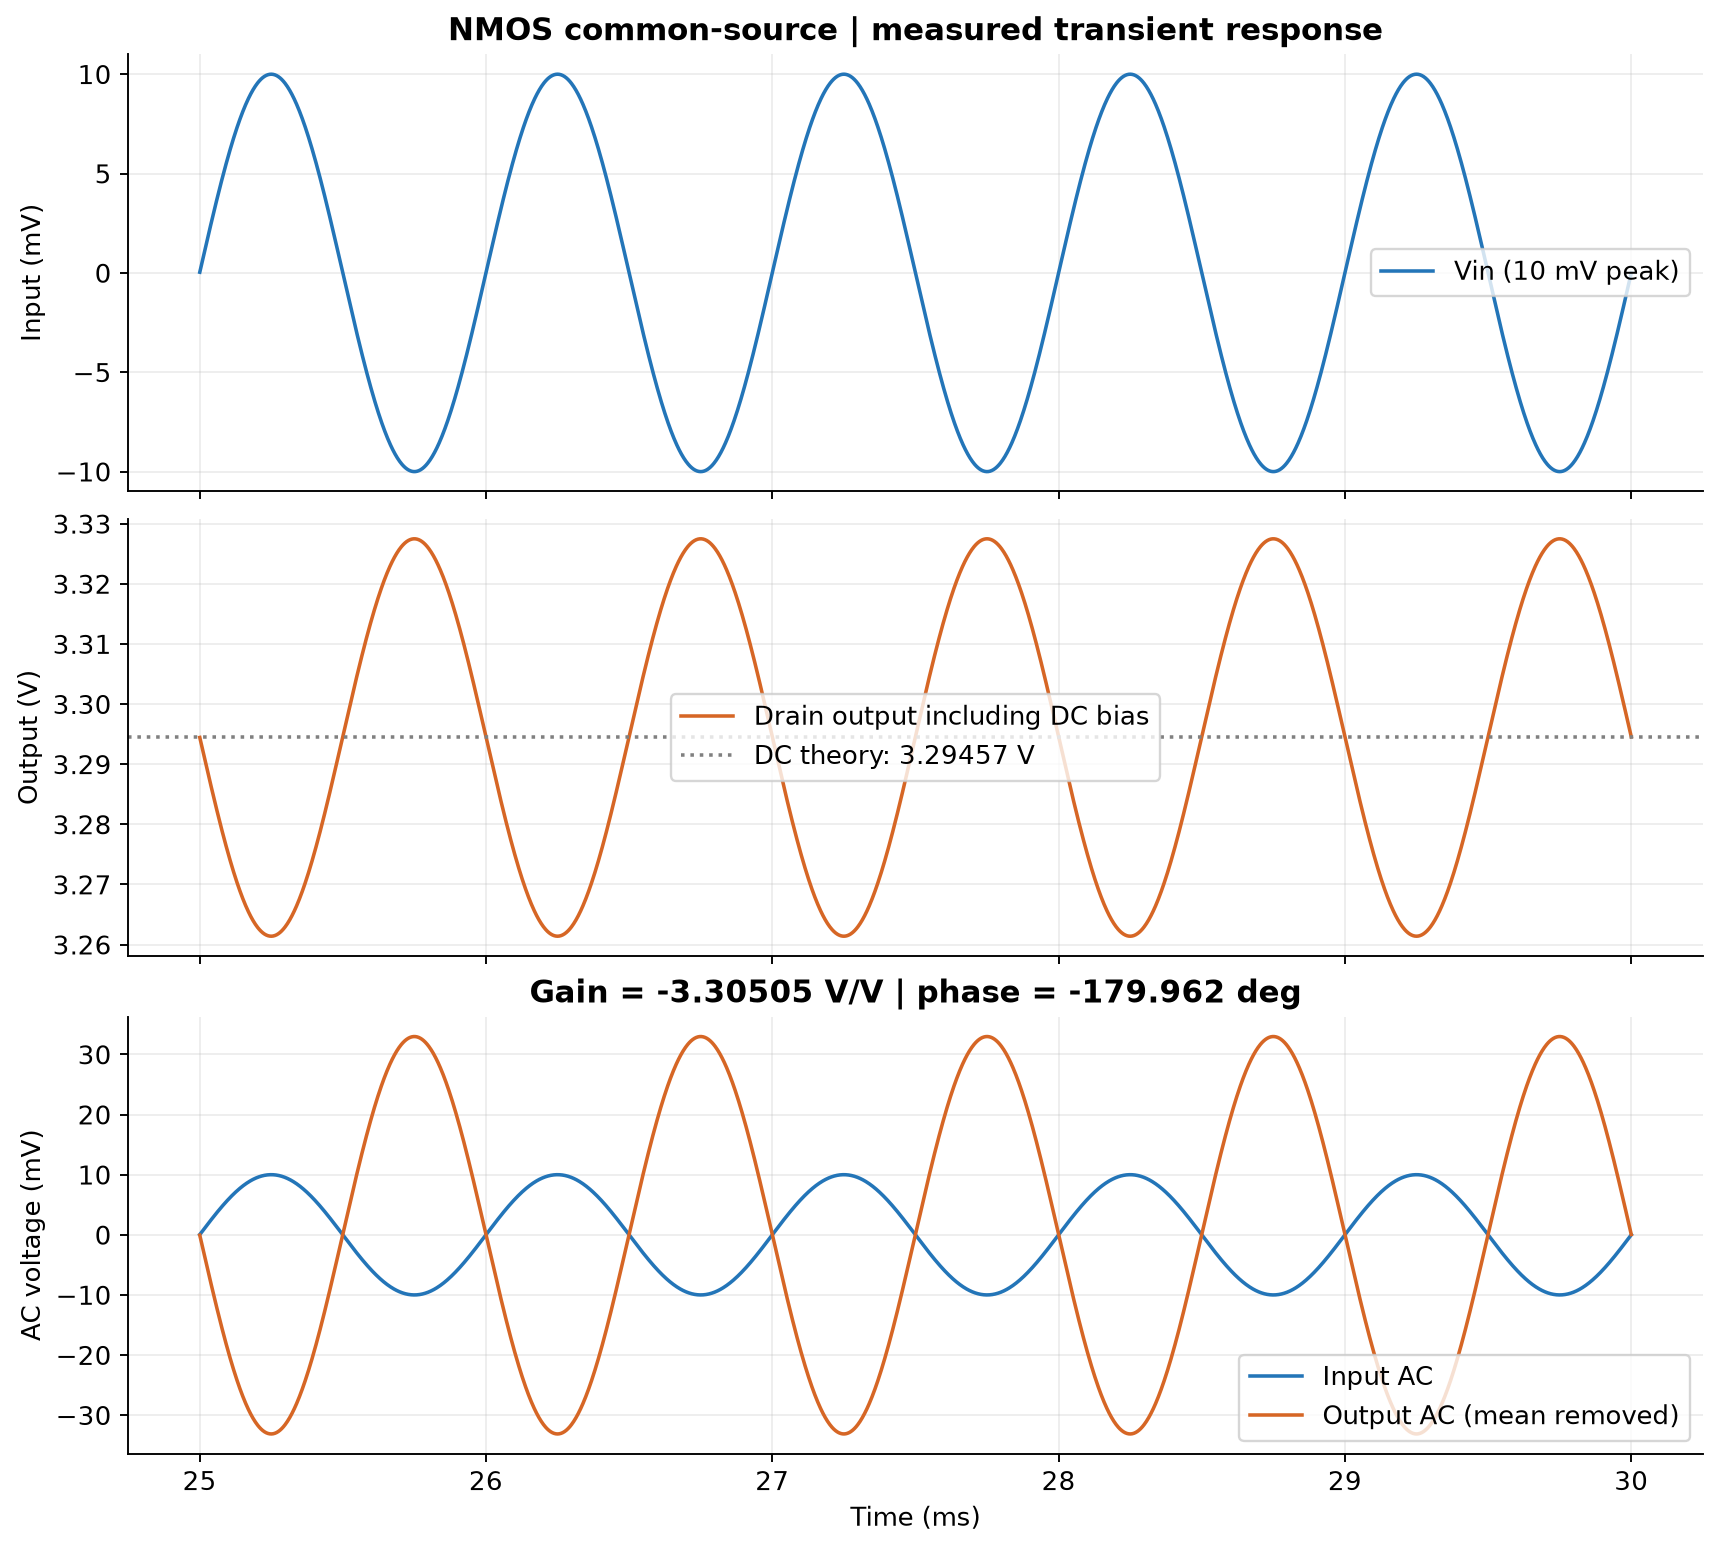
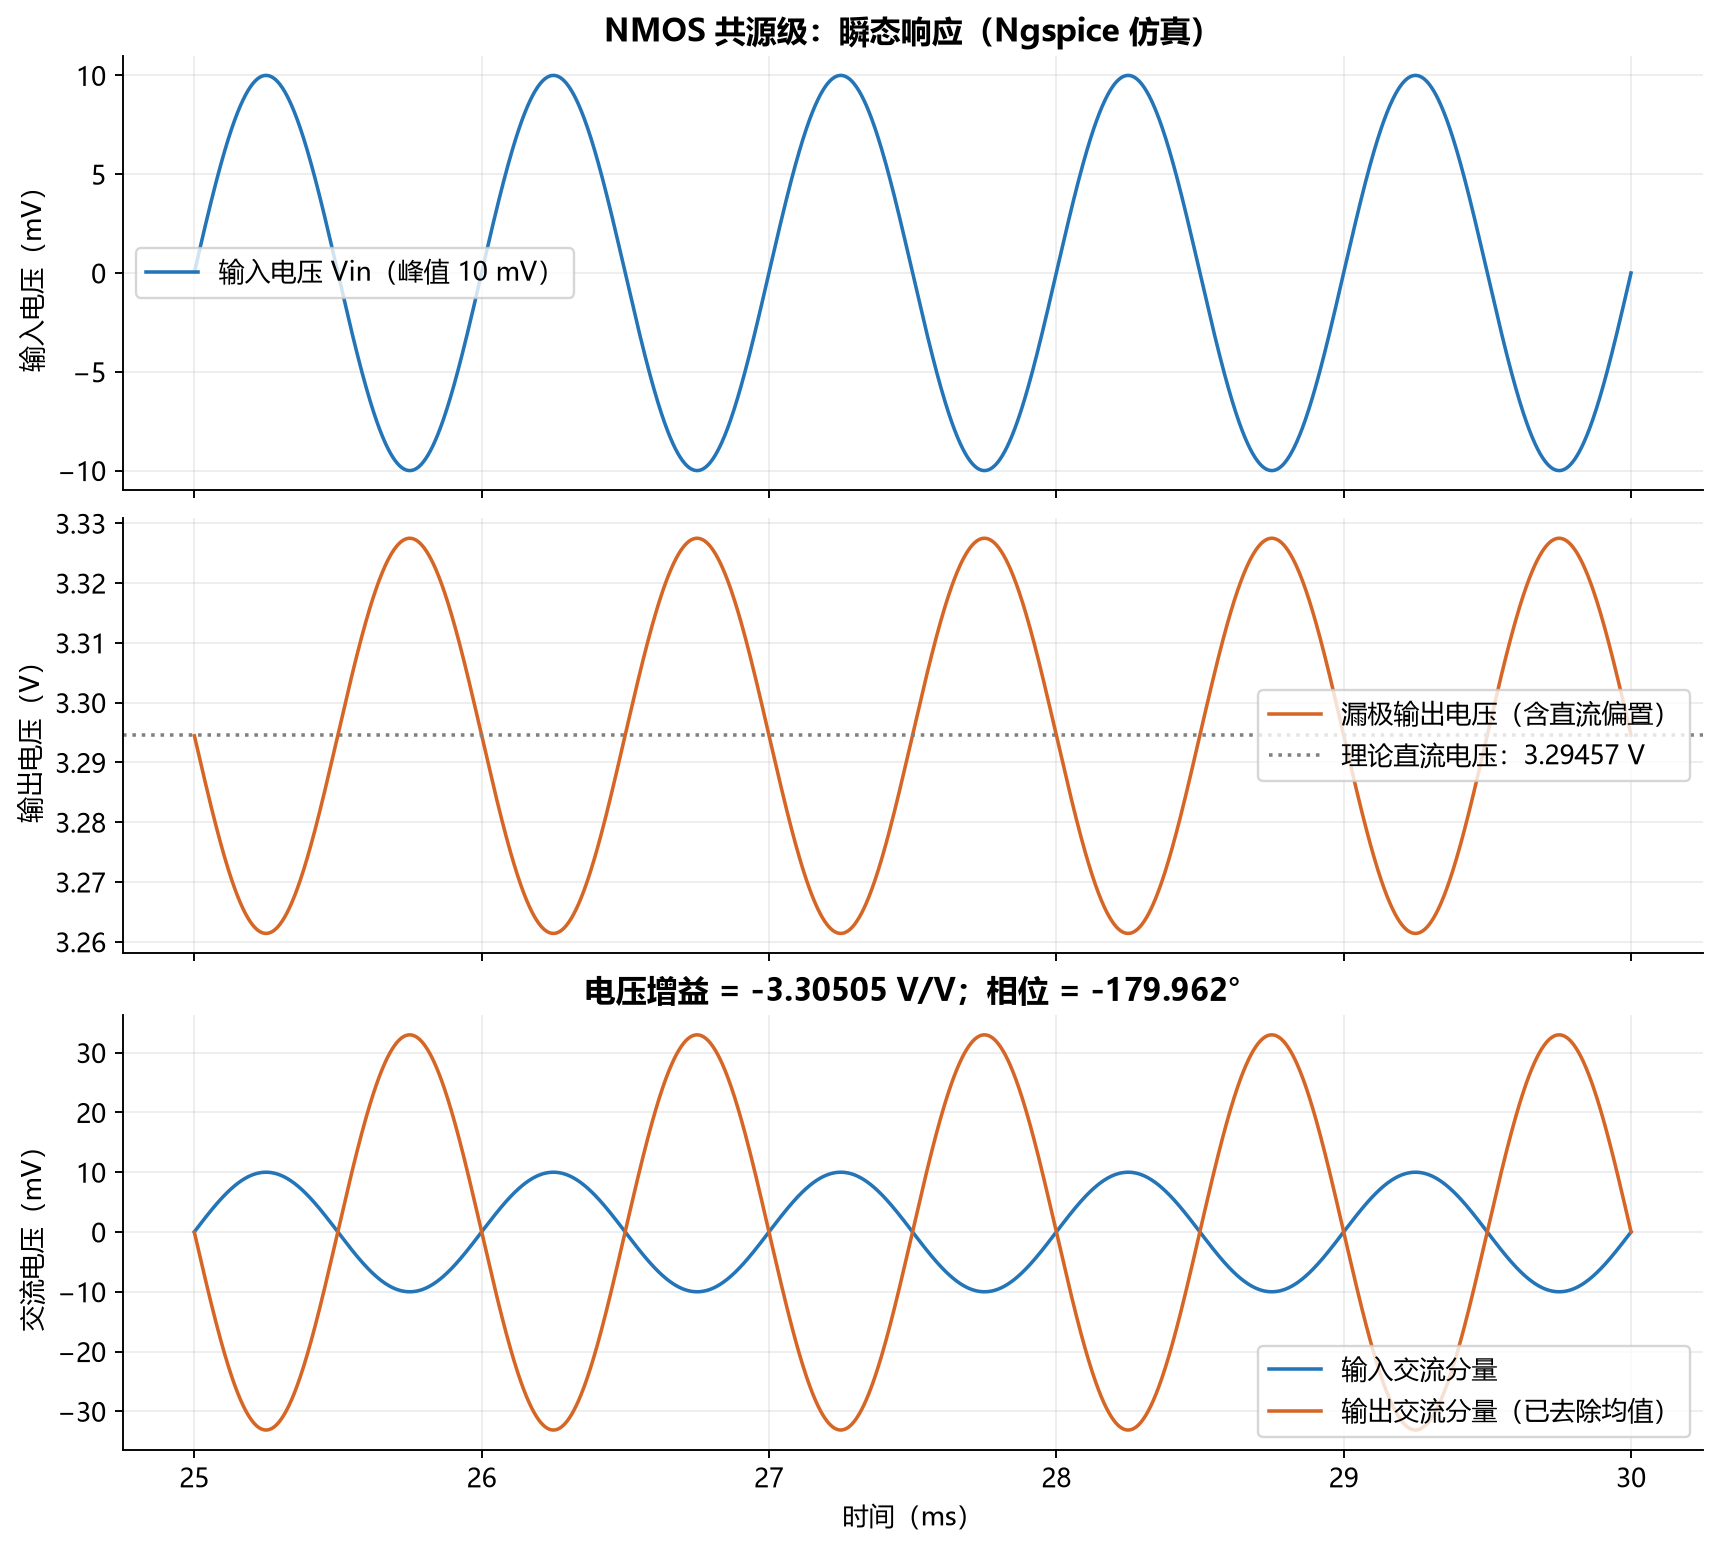
Translate circuit result charts into Chinese

diff --git a/circuits/rc_filter.py b/circuits/rc_filter.py
@@ -44,26 +44,26 @@ def main():
     save_csv('rc_transient', ['time_s','vin_V','vout_V'], [t,vi,vo])
     save_csv('rc_ac', ['frequency_Hz','gain_dB','phase_deg'], [f,db,np.angle(h,deg=True)])
     fig, axes = plt.subplots(2,1, figsize=(10,7), layout='constrained')
-    axes[0].plot(t*1e3,vi,label='Input square wave',color=BLUE)
-    axes[0].plot(t*1e3,vo,label='Output (Ngspice)',color=ORANGE)
-    axes[0].set(title='RC low-pass | square-wave response', xlabel='Time (ms)',ylabel='Voltage (V)')
+    axes[0].plot(t*1e3,vi,label='输入方波',color=BLUE)
+    axes[0].plot(t*1e3,vo,label='输出电压（Ngspice 仿真）',color=ORANGE)
+    axes[0].set(title='RC 低通滤波：方波响应', xlabel='时间（ms）',ylabel='电压（V）')
     axes[0].legend()
     tt = t[select]-.0010005
-    axes[1].plot(tt*1e3,vo[select],color=ORANGE,label='Ngspice')
-    axes[1].plot(tt*1e3,1-np.exp(-np.maximum(tt,0)/TAU),'--',color=BLUE,label='Ideal-step theory')
-    axes[1].axvline(tau_measured*1e3, color='#587955',ls=':',label=f'Measured tau = {tau_measured*1e3:.4f} ms')
-    axes[1].set(xlabel='Time from input rise midpoint (ms)',ylabel='Output (V)',title='First charging edge | 63.212% crossing')
+    axes[1].plot(tt*1e3,vo[select],color=ORANGE,label='Ngspice 仿真曲线')
+    axes[1].plot(tt*1e3,1-np.exp(-np.maximum(tt,0)/TAU),'--',color=BLUE,label='理想阶跃理论曲线')
+    axes[1].axvline(tau_measured*1e3, color='#587955',ls=':',label=f'仿真测得时间常数 τ = {tau_measured*1e3:.4f} ms')
+    axes[1].set(xlabel='相对输入上升沿中点的时间（ms）',ylabel='输出电压（V）',title='首次充电过程：达到最终电压的 63.212%')
     axes[1].legend()
     save_figure(fig,'rc_transient')
     fig, axes = plt.subplots(2,1,figsize=(10,7),sharex=True,layout='constrained')
-    axes[0].semilogx(f,db,color=ORANGE,label='Ngspice')
-    axes[0].semilogx(f,20*np.log10(abs(theory)),'--',color=BLUE,label='Theory')
+    axes[0].semilogx(f,db,color=ORANGE,label='Ngspice 仿真曲线')
+    axes[0].semilogx(f,20*np.log10(abs(theory)),'--',color=BLUE,label='理论曲线')
     axes[0].axhline(cutoff_db,ls=':',color='gray')
-    axes[0].axvline(fc_measured,ls=':',color='gray',label=f'fc = {fc_measured:.3f} Hz')
-    axes[0].set(title='RC low-pass | Bode plot',ylabel='Gain (dB)'); axes[0].legend()
-    axes[1].semilogx(f,np.angle(h,deg=True),color=ORANGE,label='Ngspice')
-    axes[1].semilogx(f,np.angle(theory,deg=True),'--',color=BLUE,label='Theory')
-    axes[1].set(xlabel='Frequency (Hz)',ylabel='Phase (degrees)'); axes[1].legend()
+    axes[0].axvline(fc_measured,ls=':',color='gray',label=f'截止频率 fc = {fc_measured:.3f} Hz')
+    axes[0].set(title='RC 低通滤波：幅频与相频特性（波特图）',ylabel='增益（dB）'); axes[0].legend()
+    axes[1].semilogx(f,np.angle(h,deg=True),color=ORANGE,label='Ngspice 仿真曲线')
+    axes[1].semilogx(f,np.angle(theory,deg=True),'--',color=BLUE,label='理论曲线')
+    axes[1].set(xlabel='频率（Hz）',ylabel='相位（°）'); axes[1].legend()
     save_figure(fig,'rc_bode')
     schematic()
     finish('rc',sim,rows,parameters={'R_ohm':R,'C_F':C,'pulse_Hz':50,'rise_time_s':1e-6},

diff --git a/circuits/mos_amplifier.py b/circuits/mos_amplifier.py
@@ -124,14 +124,14 @@ def main():
     save_csv('mos_transient',['time_s','vin_V','vgs_V','vout_V'],[t,vi,vg_wave,vo])
     shown = t>=.025
     fig,axes = plt.subplots(3,1,figsize=(10,9),sharex=True,layout='constrained')
-    axes[0].plot(t[shown]*1e3,vi[shown]*1e3,color=BLUE,label='Vin (10 mV peak)')
-    axes[0].set(ylabel='Input (mV)',title='NMOS common-source | measured transient response'); axes[0].legend()
-    axes[1].plot(t[shown]*1e3,vo[shown],color=ORANGE,label='Drain output including DC bias')
-    axes[1].axhline(VDS,color='gray',ls=':',label=f'DC theory: {VDS:.5f} V')
-    axes[1].set(ylabel='Output (V)'); axes[1].legend()
-    axes[2].plot(t[shown]*1e3,vi[shown]*1e3,color=BLUE,label='Input AC')
-    axes[2].plot(t[shown]*1e3,(vo[shown]-offset)*1e3,color=ORANGE,label='Output AC (mean removed)')
-    axes[2].set(xlabel='Time (ms)',ylabel='AC voltage (mV)',title=f'Gain = {measured_gain.real:.5f} V/V | phase = {phase:.3f} deg'); axes[2].legend()
+    axes[0].plot(t[shown]*1e3,vi[shown]*1e3,color=BLUE,label='输入电压 Vin（峰值 10 mV）')
+    axes[0].set(ylabel='输入电压（mV）',title='NMOS 共源级：瞬态响应（Ngspice 仿真）'); axes[0].legend()
+    axes[1].plot(t[shown]*1e3,vo[shown],color=ORANGE,label='漏极输出电压（含直流偏置）')
+    axes[1].axhline(VDS,color='gray',ls=':',label=f'理论直流电压：{VDS:.5f} V')
+    axes[1].set(ylabel='输出电压（V）'); axes[1].legend()
+    axes[2].plot(t[shown]*1e3,vi[shown]*1e3,color=BLUE,label='输入交流分量')
+    axes[2].plot(t[shown]*1e3,(vo[shown]-offset)*1e3,color=ORANGE,label='输出交流分量（已去除均值）')
+    axes[2].set(xlabel='时间（ms）',ylabel='交流电压（mV）',title=f'电压增益 = {measured_gain.real:.5f} V/V；相位 = {phase:.3f}°'); axes[2].legend()
     save_figure(fig,'mos_transient')
     schematic(); schematic(dc=True); small_signal()
     finish('mos',sim,rows,convention='Id = K*(Vgs-Vto)^2*(1+lambda*Vds); KP=2*K; W=L=10um',

diff --git a/circuits/thevenin.py b/circuits/thevenin.py
@@ -69,12 +69,12 @@ def main():
     values = np.asarray(data)
     save_csv('thevenin_loads',['RL_ohm','theory_V','original_V','equivalent_V','theory_mA','original_mA','equivalent_mA'],values.T)
     fig, axes = plt.subplots(1,2,figsize=(11,4.5),layout='constrained')
-    for ax,theory_col,orig_col,eq_col,unit in [(axes[0],1,2,3,'Voltage (V)'),(axes[1],4,5,6,'Current (mA)')]:
-        ax.semilogx(values[:,0],values[:,theory_col],color='#96a3b2',label='Theory')
-        ax.semilogx(values[:,0],values[:,orig_col],'o',color=BLUE,label='Original (OP)')
-        ax.semilogx(values[:,0],values[:,eq_col],'x',color=ORANGE,ms=8,label='Equivalent (OP)')
-        ax.set(xlabel='Load resistance (ohm)',ylabel=unit); ax.legend()
-    fig.suptitle('Thevenin validation | same terminal behavior under five loads')
+    for ax,theory_col,orig_col,eq_col,unit in [(axes[0],1,2,3,'负载电压（V）'),(axes[1],4,5,6,'负载电流（mA）')]:
+        ax.semilogx(values[:,0],values[:,theory_col],color='#96a3b2',label='理论值')
+        ax.semilogx(values[:,0],values[:,orig_col],'o',color=BLUE,label='原电路直流仿真值')
+        ax.semilogx(values[:,0],values[:,eq_col],'x',color=ORANGE,ms=8,label='等效电路直流仿真值')
+        ax.set(xlabel='负载电阻（Ω）',ylabel=unit); ax.legend()
+    fig.suptitle('戴维南定理验证：五种负载下的端口电压与电流对比')
     save_figure(fig,'thevenin_loads')
     schematic()
     finish('thevenin',sim,rows,load_checks=checks,load_table=data,

diff --git a/circuits/common.py b/circuits/common.py
@@ -26,6 +26,8 @@ import schemdraw
 import schemdraw.elements as elm
 
 plt.rcParams.update({'figure.dpi': 130, 'savefig.dpi': 170, 'font.size': 11,
+                     'font.family': 'sans-serif',
+                     'font.sans-serif': ['Microsoft YaHei', 'DejaVu Sans'],
                      'axes.spines.top': False, 'axes.spines.right': False,
                      'axes.grid': True, 'grid.alpha': .22, 'axes.titleweight': 'bold'})
 BLUE, ORANGE = '#2375b8', '#d66625'
